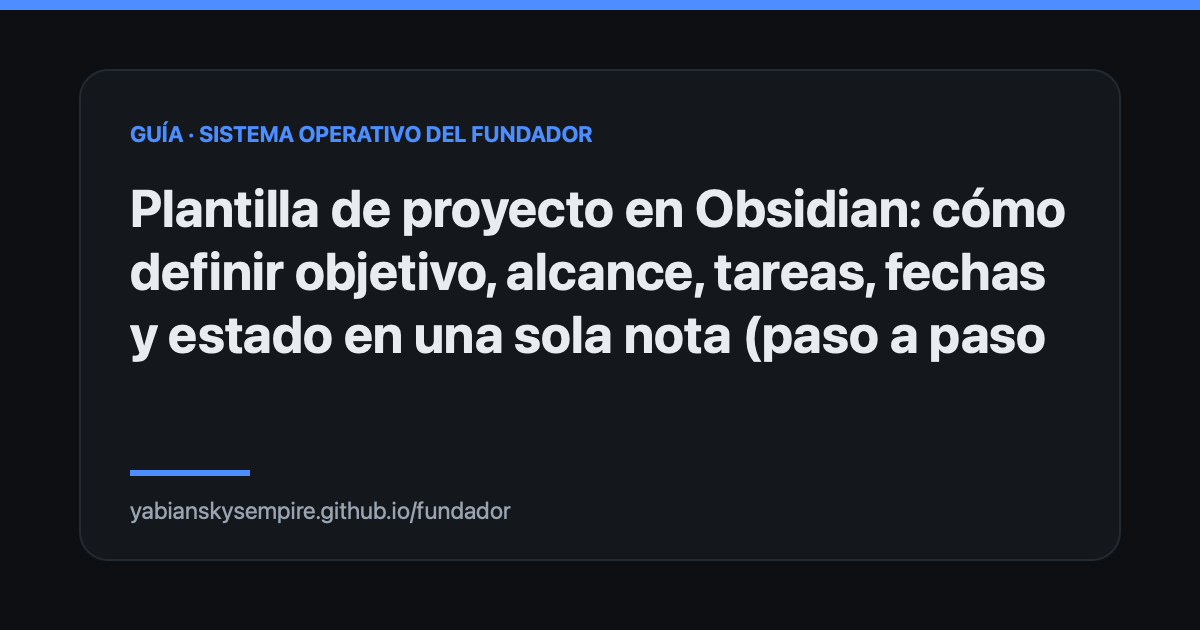
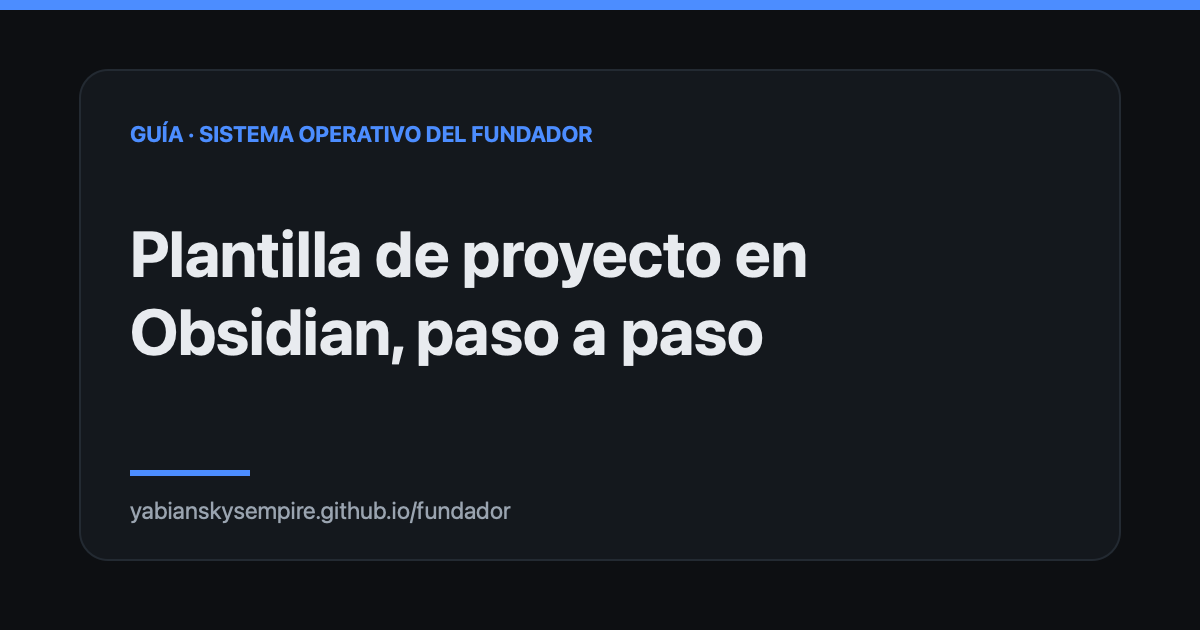
AURUM: rebuild site

Changed region(s): [[0.0925, 0.3016, 0.8942, 0.573]]

diff --git a/articulos/plantilla-de-proyecto-en-obsidian.html b/articulos/plantilla-de-proyecto-en-obsidian.html
@@ -14,10 +14,10 @@
 <meta property="og:url" content="https://yabianskysempire.github.io/fundador/articulos/plantilla-de-proyecto-en-obsidian.html">
 <meta property="og:site_name" content="Sistema Operativo del Fundador">
 <meta property="og:locale" content="es_LA">
-<meta property="og:image" content="https://yabianskysempire.github.io/fundador/descargas/tarjeta-social.png">
+<meta property="og:image" content="https://yabianskysempire.github.io/fundador/descargas/tarjeta-plantilla-de-proyecto-en-obsidian.png">
 <meta property="og:image:width" content="1200">
 <meta property="og:image:height" content="630">
-<meta property="og:image:alt" content="Sistema Operativo del Fundador">
+<meta property="og:image:alt" content="Plantilla de proyecto en Obsidian, paso a paso">
 <meta name="twitter:card" content="summary_large_image">
 <meta http-equiv="Content-Security-Policy" content="default-src 'self'; style-src 'self'; img-src 'self' data:; script-src 'none'; base-uri 'none'; form-action 'none'">
 <meta name="referrer" content="strict-origin-when-cross-origin">
@@ -25,7 +25,7 @@
 <link rel="alternate" type="application/rss+xml" title="Sistema Operativo del Fundador" href="/fundador/feed.xml">
 <link rel="icon" type="image/png" sizes="96x96" href="/fundador/descargas/favicon.png">
 <link rel="apple-touch-icon" href="/fundador/descargas/favicon.png">
-<script type="application/ld+json">{"@context": "https://schema.org", "@graph": [{"@type": "Article", "headline": "Plantilla de proyecto en Obsidian, paso a paso", "description": "Aprende a armar una nota de proyecto en Obsidian con objetivo, alcance, tareas, fechas y estado, con plantilla para copiar, ejemplo y errores comunes.", "datePublished": "2026-11-01", "dateModified": "2026-11-01", "inLanguage": "es", "mainEntityOfPage": "https://yabianskysempire.github.io/fundador/articulos/plantilla-de-proyecto-en-obsidian.html", "author": {"@type": "Organization", "name": "Sistema Operativo del Fundador", "url": "https://yabianskysempire.github.io/fundador/"}, "publisher": {"@type": "Organization", "name": "Sistema Operativo del Fundador", "url": "https://yabianskysempire.github.io/fundador/"}, "image": "https://yabianskysempire.github.io/fundador/descargas/tarjeta-social.png"}, {"@type": "BreadcrumbList", "itemListElement": [{"@type": "ListItem", "position": 1, "name": "Inicio", "item": "https://yabianskysempire.github.io/fundador/"}, {"@type": "ListItem", "position": 2, "name": "Guías por tema", "item": "https://yabianskysempire.github.io/fundador/guias.html"}, {"@type": "ListItem", "position": 3, "name": "Plantilla de proyecto en Obsidian, paso a paso", "item": "https://yabianskysempire.github.io/fundador/articulos/plantilla-de-proyecto-en-obsidian.html"}]}]}</script>
+<script type="application/ld+json">{"@context": "https://schema.org", "@graph": [{"@type": "Article", "headline": "Plantilla de proyecto en Obsidian, paso a paso", "description": "Aprende a armar una nota de proyecto en Obsidian con objetivo, alcance, tareas, fechas y estado, con plantilla para copiar, ejemplo y errores comunes.", "datePublished": "2026-11-01", "dateModified": "2026-11-01", "inLanguage": "es", "mainEntityOfPage": "https://yabianskysempire.github.io/fundador/articulos/plantilla-de-proyecto-en-obsidian.html", "author": {"@type": "Organization", "name": "Sistema Operativo del Fundador", "url": "https://yabianskysempire.github.io/fundador/"}, "publisher": {"@type": "Organization", "name": "Sistema Operativo del Fundador", "url": "https://yabianskysempire.github.io/fundador/"}, "image": "https://yabianskysempire.github.io/fundador/descargas/tarjeta-plantilla-de-proyecto-en-obsidian.png"}, {"@type": "BreadcrumbList", "itemListElement": [{"@type": "ListItem", "position": 1, "name": "Inicio", "item": "https://yabianskysempire.github.io/fundador/"}, {"@type": "ListItem", "position": 2, "name": "Guías por tema", "item": "https://yabianskysempire.github.io/fundador/guias.html"}, {"@type": "ListItem", "position": 3, "name": "Plantilla de proyecto en Obsidian, paso a paso", "item": "https://yabianskysempire.github.io/fundador/articulos/plantilla-de-proyecto-en-obsidian.html"}]}]}</script>
 </head>
 <body>
 <header class="top"><a class="brand" href="/fundador/">Sistema Operativo del Fundador</a></header>
